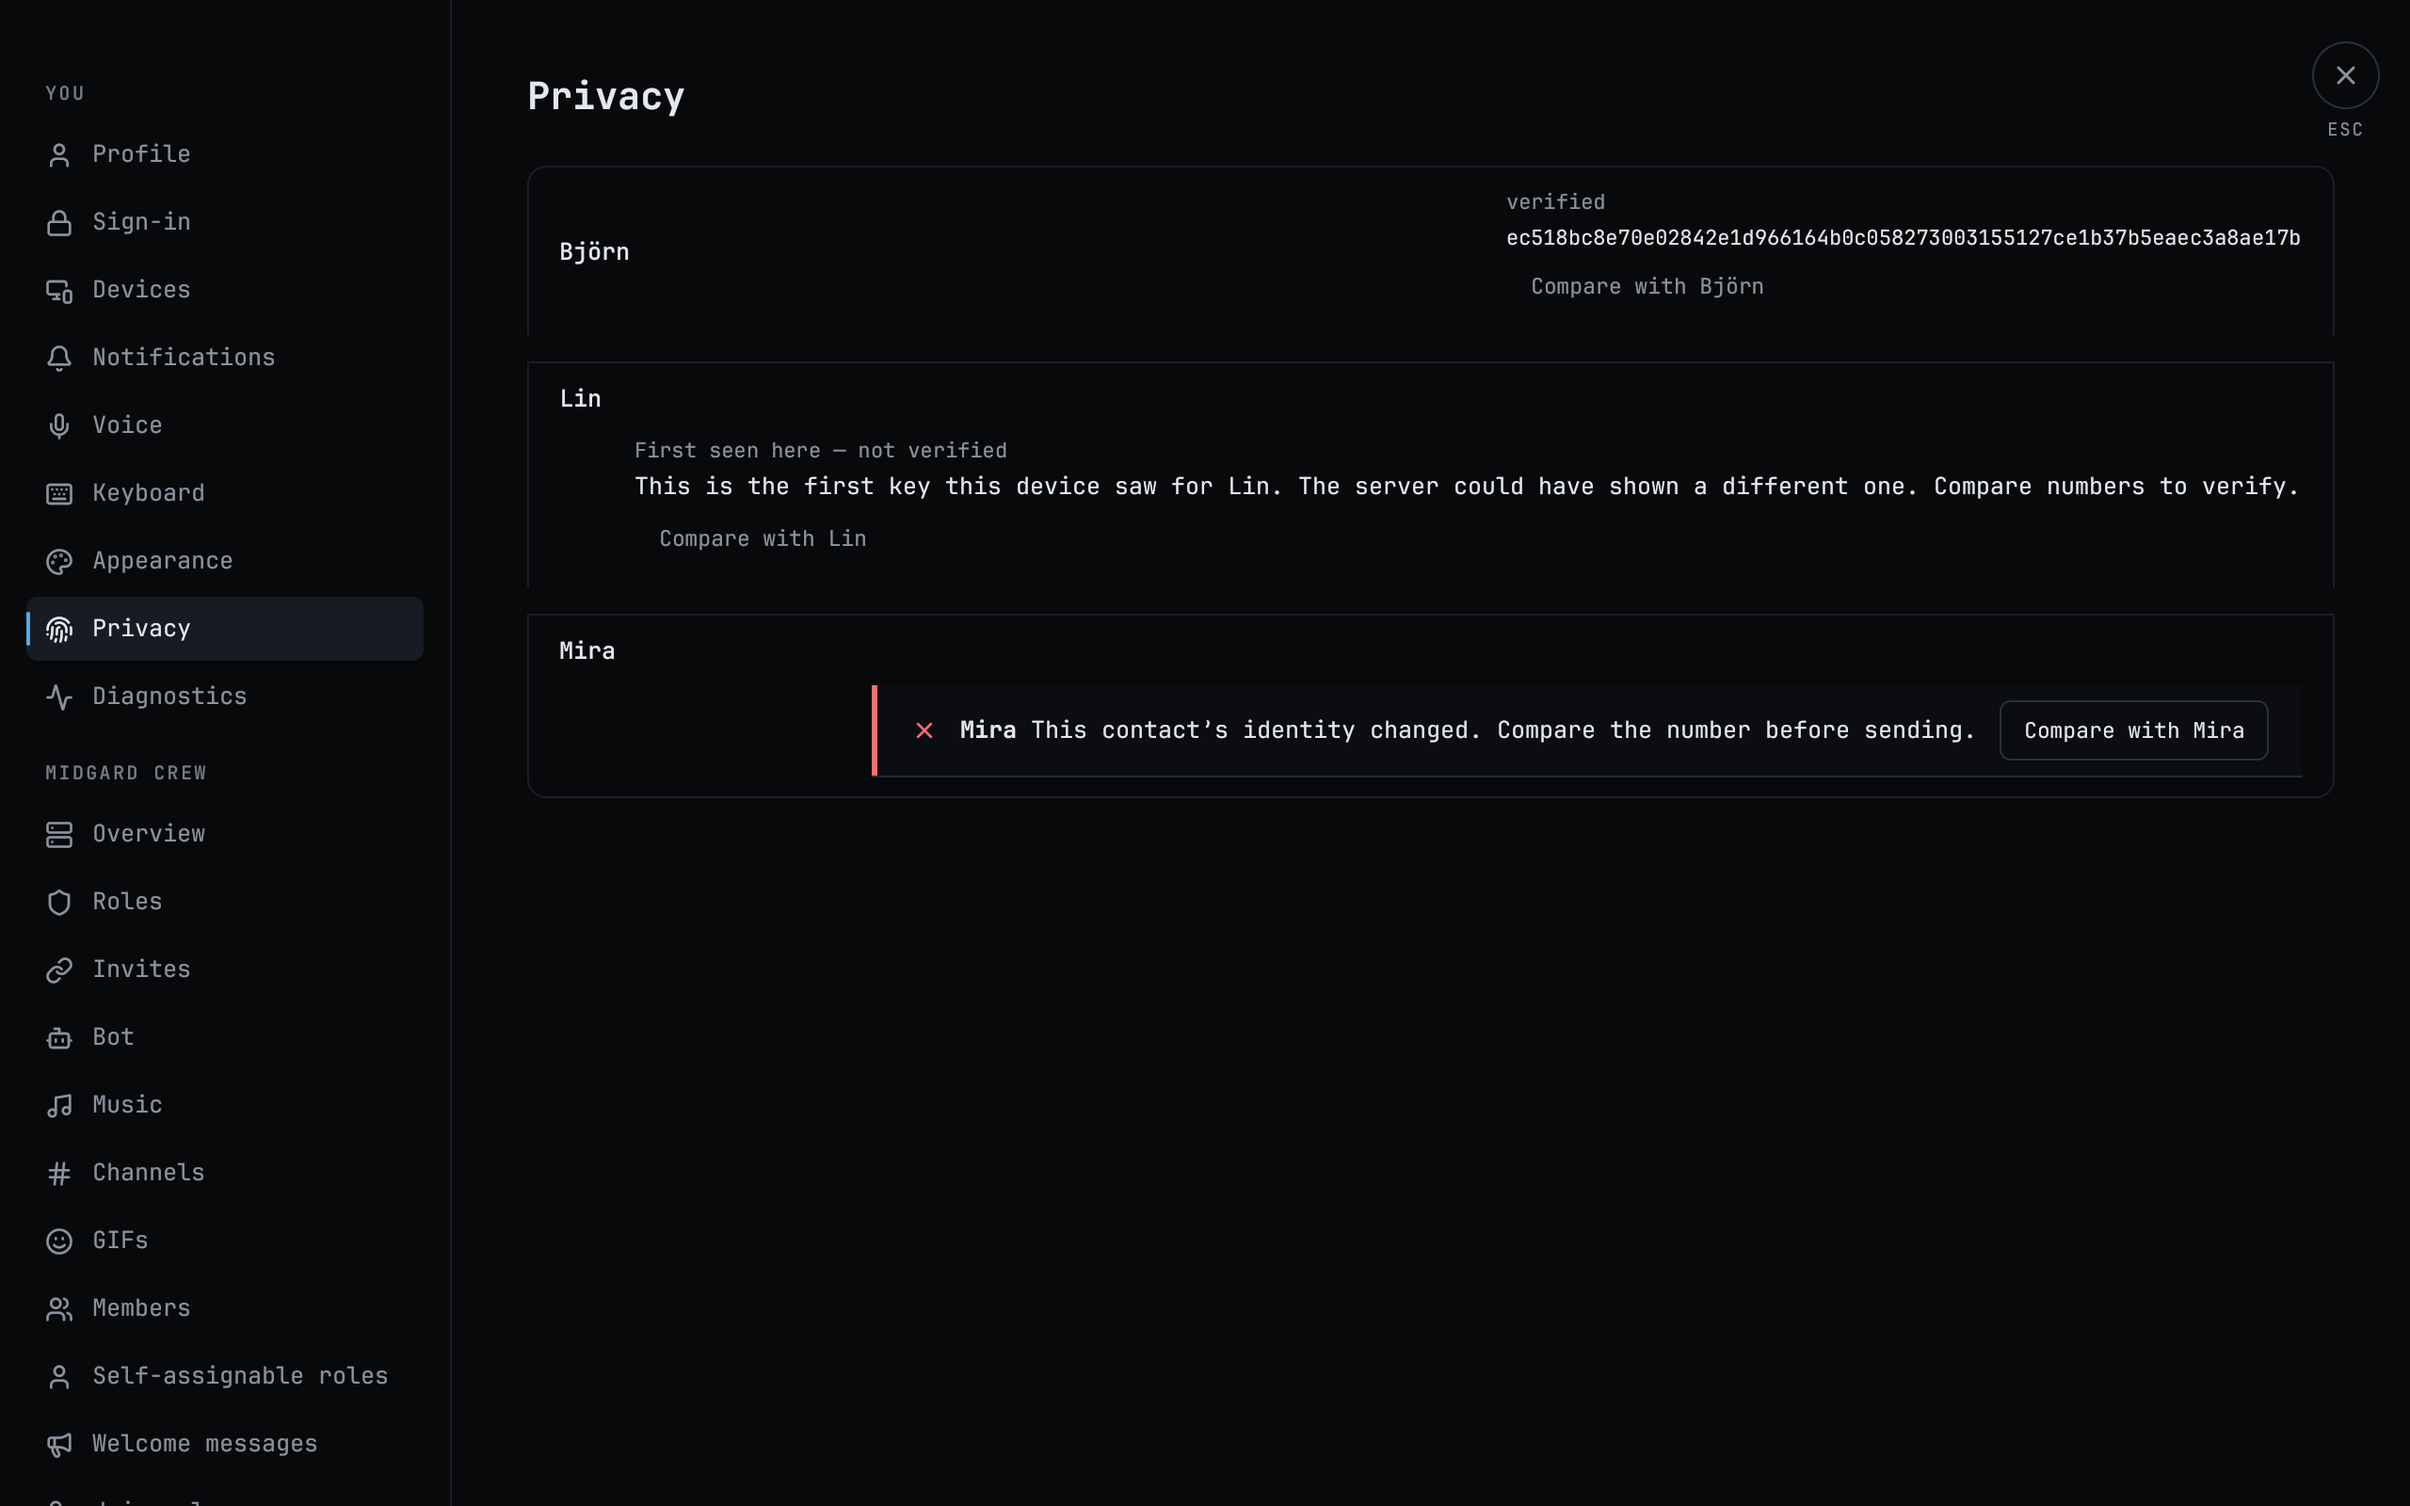
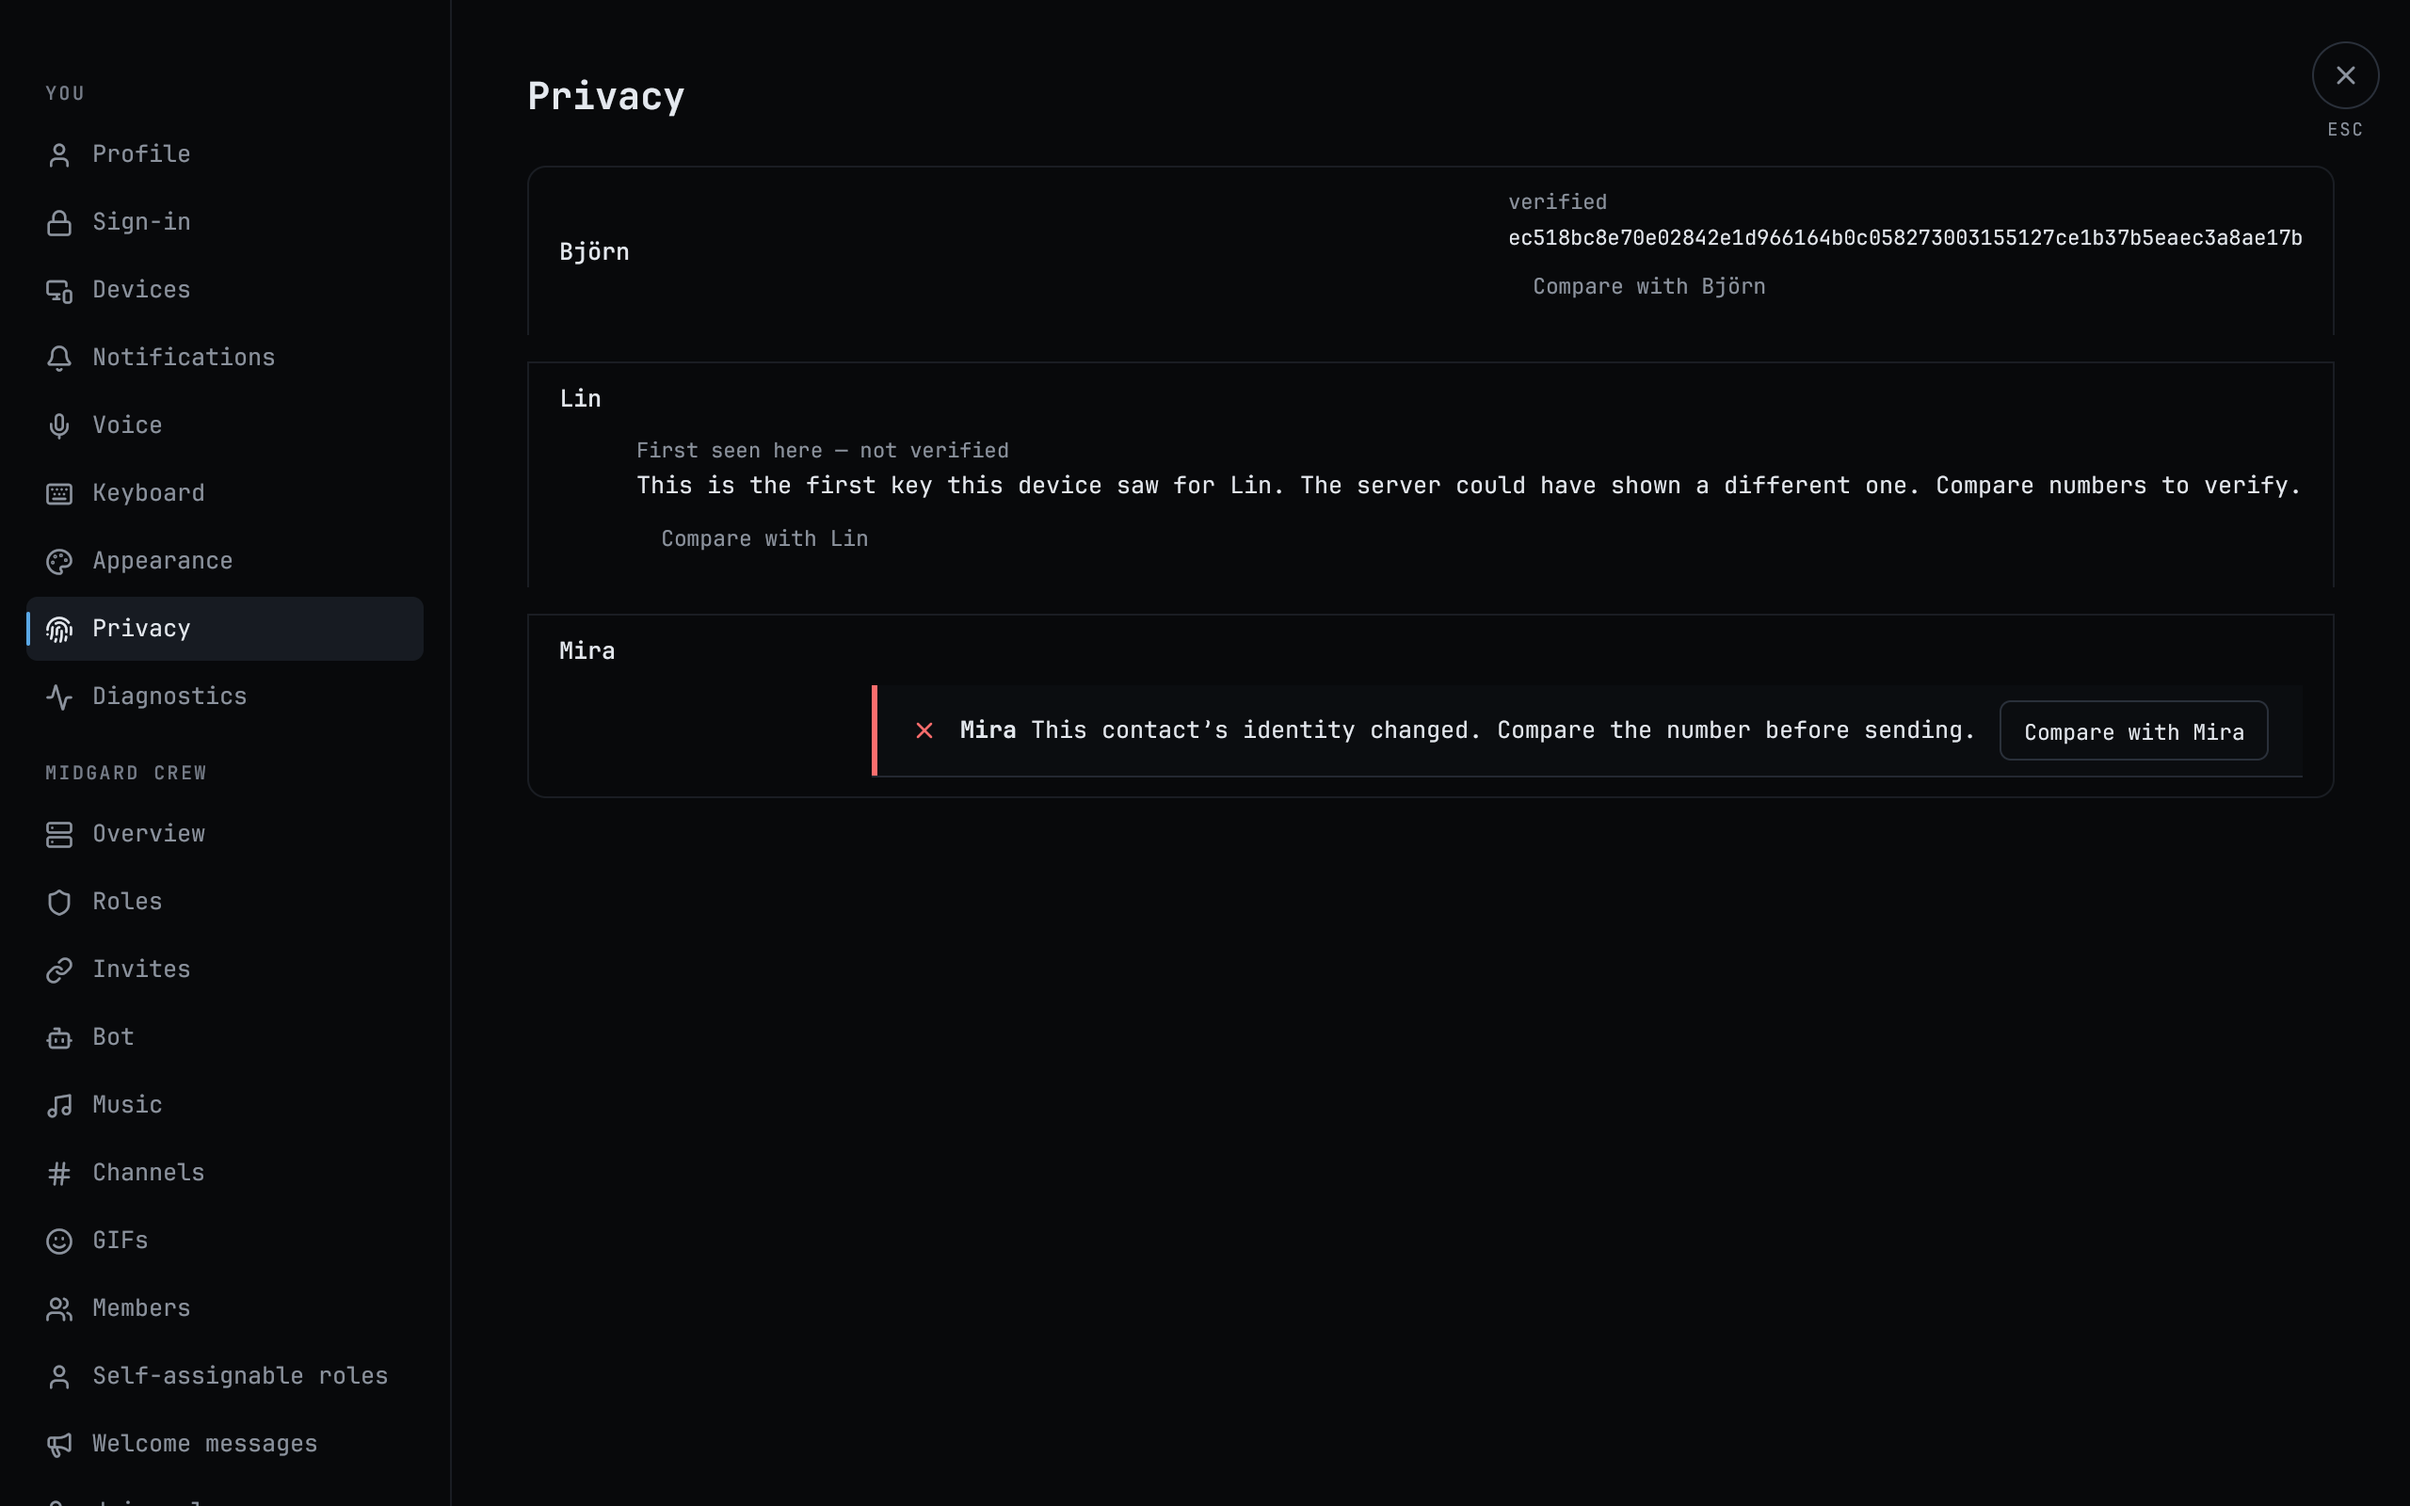
desktop: the trust rows' and the comparison's text goes through the text layer, so the parity mask covers it
body_text, trust_key, the toned trust_state lines and the comparison's
paragraphs and key were bare GPUI text children. Those report no line box
to text-bounds, so the parity text mask left their glyphs in the chrome
gate: macOS (CoreText) failed the Linux goldens' chrome limit on
privacy-section (0.741 %) and privacy-changed (0.542 %), allowed 0.4 %.
They are now flow_paragraphs (JetBrains Mono, Chromium's line grid,
reported to the mask). privacy_text_is_masked asserts no glyph ink in the
Privacy content column lies outside a reported line box (22350 px before).
Goldens and the three Privacy docs screenshots re-blessed.

Claude-Session: https://claude.ai/code/session_012Nny5K2B969mk49QX3XSXG

Changed region(s): [[0.2812, 0.2812, 0.9375, 0.375], [0.625, 0.125, 0.9375, 0.2188], [0.8438, 0.4688, 0.9062, 0.5]]

diff --git a/clients/desktop/dilla-desktop-ui/src/components/dms/privacy.rs b/clients/desktop/dilla-desktop-ui/src/components/dms/privacy.rs
@@ -2,14 +2,15 @@
 //! (`.dw-trust-state[data-tone]`: `.5rem` in, `--fg` text; warn or danger edge), the compared public key in mono
 //! (`.dw-trust-key`, breaking anywhere), and the conversation's removed note (`.dw-trust-removed`, a status line).
 //!
-//! Every text here names the design's family (`--font-mono`, JetBrains Mono, embedded): a GPUI text run with no family
-//! is `.SystemUIFont`, which resolves to whatever sans the host has installed, so its width (and every column laid out
-//! around it) changed from host to host (tests/dms.rs `native_trust_screens_do_not_depend_on_system_fonts`).
+//! Every text here goes through the text layer ([`line`], [`flow_paragraph`]), never a bare text child: a bare child
+//! names no family, so GPUI drew it in the host's `.SystemUIFont` (its width moved every column; tests/dms.rs
+//! `native_trust_screens_do_not_depend_on_system_fonts`), and it reports no line box, so the parity text mask left its
+//! glyphs in the chrome gate, where macOS's rasteriser failed the Linux goldens (`text_is_masked` in tests/dms.rs).
 
 use gpui::{InteractiveElement, IntoElement, ParentElement, SharedString, Styled, div, px};
 
-use crate::text::line;
-use crate::tokens::{color, font, text};
+use crate::text::{flow_paragraph, line, root_line_height};
+use crate::tokens::{color, text};
 
 /// `data-tone` of a state line.
 #[derive(Clone, Copy, Debug, PartialEq, Eq)]
@@ -22,12 +23,11 @@ pub enum TrustTone {
 
 /// A state line (`p.dw-trust-state`).
 pub fn trust_state(text_: impl Into<SharedString>, tone: TrustTone) -> gpui::Div {
-    let lh = crate::text::root_line_height(text::SM);
     match tone {
         TrustTone::Label => div().child(line(
             text_,
             text::XS,
-            crate::text::root_line_height(text::XS),
+            root_line_height(text::XS),
             color::FG_2,
         )),
         TrustTone::Warn | TrustTone::Danger => {
@@ -40,37 +40,34 @@ pub fn trust_state(text_: impl Into<SharedString>, tone: TrustTone) -> gpui::Div
                 .pl(px(8.0))
                 .border_l(px(3.0))
                 .border_color(edge)
-                .child(
-                    div()
-                        .font_family(font::MONO)
-                        .text_size(text::SM)
-                        .line_height(px(lh))
-                        .text_color(color::FG)
-                        .child(text_.into()),
-                )
+                .child(flow_paragraph(
+                    text_,
+                    text::SM,
+                    root_line_height(text::SM),
+                    color::FG,
+                ))
         }
     }
 }
 
 /// Plain body text of a contact row (`<p>`), wrapping.
 pub fn body_text(text_: impl Into<SharedString>) -> gpui::Div {
-    div()
-        .font_family(font::MONO)
-        .text_size(text::SM)
-        .line_height(px(crate::text::root_line_height(text::SM)))
-        .text_color(color::FG)
-        .child(text_.into())
+    div().child(flow_paragraph(
+        text_,
+        text::SM,
+        root_line_height(text::SM),
+        color::FG,
+    ))
 }
 
-/// The compared public key (`code.dw-trust-key`), 64 hex digits that break anywhere.
+/// The compared public key (`code.dw-trust-key`), 64 hex digits (a line narrower than the key breaks it mid-word).
 pub fn trust_key(key: impl Into<SharedString>) -> impl IntoElement {
-    div()
-        .id("trust-key")
-        .font_family(font::MONO)
-        .text_size(text::XS)
-        .line_height(px(crate::text::root_line_height(text::XS)))
-        .text_color(color::FG)
-        .child(key.into())
+    div().id("trust-key").child(flow_paragraph(
+        key,
+        text::XS,
+        root_line_height(text::XS),
+        color::FG,
+    ))
 }
 
 /// `p.dw-trust-removed` (role status): sending resumed here after a validated Remove.

diff --git a/clients/desktop/dilla-desktop/tests/dms.rs b/clients/desktop/dilla-desktop/tests/dms.rs
@@ -454,6 +454,55 @@ fn native_trust(fixture: &str, golden: &str) {
     );
 }
 
+/// The bright pixels (a channel over 96: glyph ink; the rows' hairlines and fills peak at 35) of the content column of
+/// `fixture`'s frame that no reported line box covers. Text the text mask does not know of is compared as chrome, where
+/// another rasteriser's anti-aliasing (macOS CoreText against the Linux goldens) fails the chrome gate.
+fn unmasked_ink(fixture: &str, prepare: impl FnOnce(&mut dilla_parity::Driver)) -> Vec<(u32, u32)> {
+    let path = std::path::Path::new(env!("CARGO_MANIFEST_DIR"))
+        .join("../parity/fixtures")
+        .join(format!("{fixture}.json"));
+    let mut app = dilla_parity::Driver::launch_fixture(&path, None, &[]);
+    app.wait_idle();
+    prepare(&mut app);
+    app.rest();
+    app.wait_idle();
+    let shot = app.screenshot();
+    let mask = dilla_parity::screen::text_mask(&mut app, dilla_parity::screen::TEXT_FRINGE_PX);
+    let masked = |x: u32, y: u32| {
+        mask.rects()
+            .iter()
+            .any(|r| x >= r.x && x < r.x + r.w && y >= r.y && y < r.y + r.h)
+    };
+    // The settings content column at 2x: right of the sidebar (280 px), under the close button (y 75), left of it.
+    let mut ink = Vec::new();
+    for y in 150..shot.height() {
+        for x in 560..2440.min(shot.width()) {
+            let p = shot.get_pixel(x, y).0;
+            if p[..3].iter().any(|&c| c > 96) && !masked(x, y) {
+                ink.push((x, y));
+            }
+        }
+    }
+    ink
+}
+
+/// Every text of Settings -> Privacy is in the text mask: its rows' labels, key, body text and Compare buttons report
+/// their line boxes. The rows' key and body text were bare GPUI text children, which report none, so their glyphs were
+/// compared as chrome and macOS failed the Linux goldens' chrome gate (0.74 %, allowed 0.4 %).
+#[test]
+#[cfg_attr(
+    not(any(target_os = "linux", target_os = "macos")),
+    ignore = "the headless renderer is Linux and macOS only"
+)]
+fn privacy_text_is_masked() {
+    let ink = unmasked_ink("trust/privacy", |_| {});
+    assert!(
+        ink.is_empty(),
+        "{} bright pixels outside every text line box, first {:?}",
+        ink.len(),
+        &ink[..ink.len().min(5)]
+    );
+}
 /// The trust screens' frames do not depend on the host's fonts: with DejaVu Sans as the only system face
 /// (`one_system_font`, the face the CI runner resolves) each frame still equals its golden. The Privacy rows' body text,
 /// key and toned states, and the comparison's instructions, once named no family, so GPUI drew them in the host's

diff --git a/clients/desktop/dilla-desktop-ui/src/components/dms/safety_compare.rs b/clients/desktop/dilla-desktop-ui/src/components/dms/safety_compare.rs
@@ -130,15 +130,15 @@ impl SafetyCompareBody {
     }
 }
 
-/// A wrapping paragraph in the dialog's family (`.d-dialog__panel`: `--font-mono`); a run with no family would be the
-/// host's `.SystemUIFont` (privacy.rs).
+/// A wrapping paragraph in the dialog's family (`.d-dialog__panel`: `--font-mono`), through the text layer: a bare text
+/// child would be the host's `.SystemUIFont` and outside the parity text mask (privacy.rs).
 fn para(text_: SharedString, colour: gpui::Hsla) -> gpui::Div {
-    div()
-        .font_family(font::MONO)
-        .text_size(text::SM)
-        .line_height(px(crate::text::root_line_height(text::SM)))
-        .text_color(colour)
-        .child(text_)
+    div().child(crate::text::flow_paragraph(
+        text_,
+        text::SM,
+        crate::text::root_line_height(text::SM),
+        colour,
+    ))
 }
 
 impl RenderOnce for SafetyCompareBody {
@@ -186,11 +186,7 @@ impl RenderOnce for SafetyCompareBody {
                     div()
                         .id("safety-public-umk")
                         .mt(px(6.0))
-                        .font_family(font::MONO)
-                        .text_size(text::SM)
-                        .line_height(px(lh))
-                        .text_color(color::FG)
-                        .child(key),
+                        .child(crate::text::flow_paragraph(key, text::SM, lh, color::FG)),
                 );
             }
             body = body.child(details);
